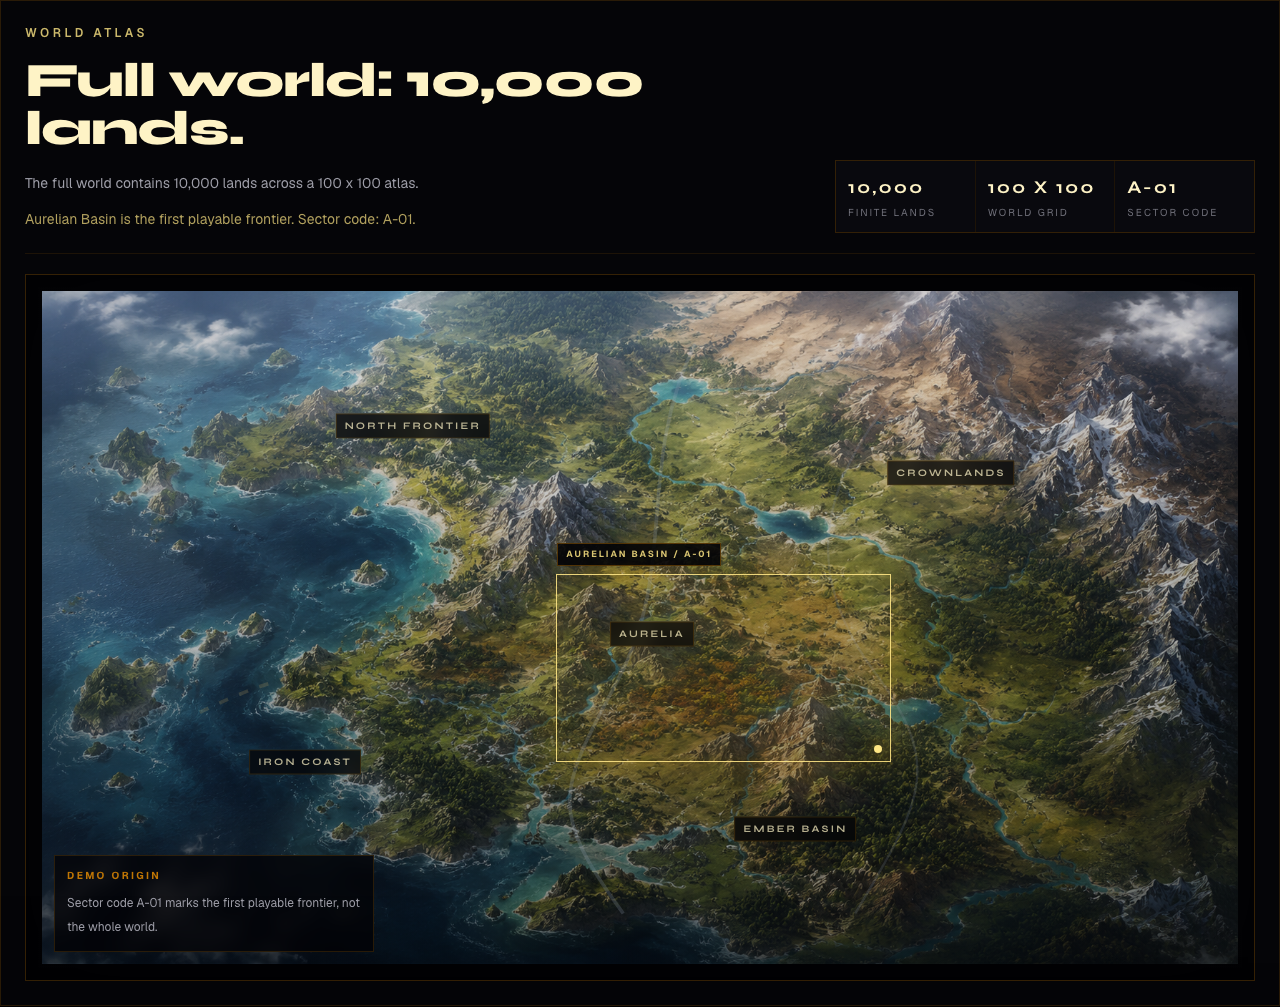
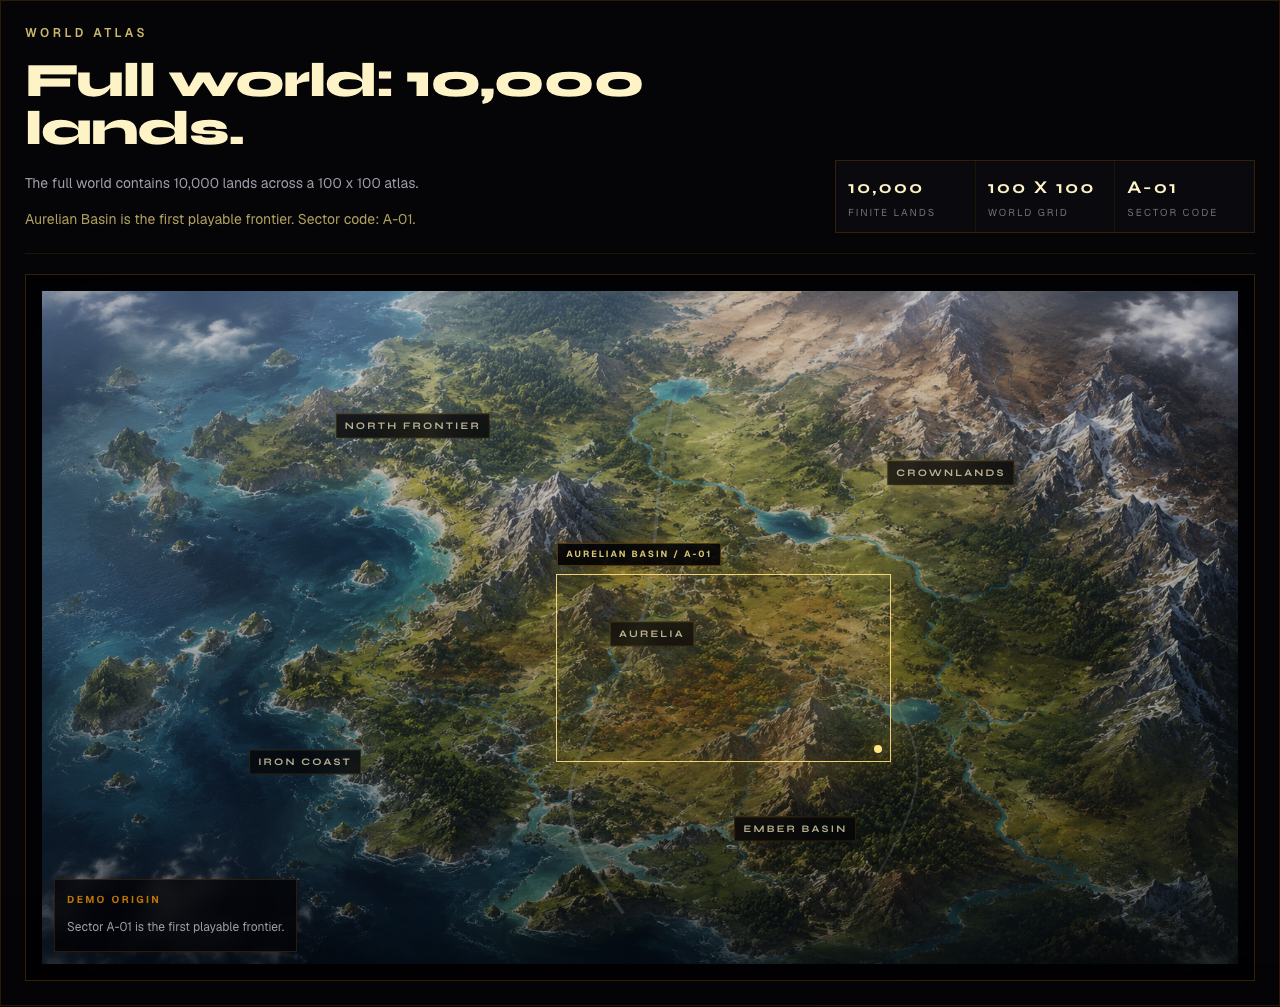
Fix mobile map framing and QA bundle rule

Changed region(s): [[0.0312, 0.8312, 0.2812, 0.9235]]

diff --git a/app/world/page.tsx b/app/world/page.tsx
@@ -370,6 +370,7 @@ export default function WorldPage() {
   const [selectedTileId, setSelectedTileId] = useState<string>(tiles[0].id);
   const [isClaimModalOpen, setIsClaimModalOpen] = useState(false);
   const [claimSuccess, setClaimSuccess] = useState(false);
+  const [mobileMapZoom, setMobileMapZoom] = useState(1);
 
   useEffect(() => {
     const state = readSettlementState();
@@ -441,6 +442,15 @@ export default function WorldPage() {
     setSelectedTileId(tileId);
     setHasUserSelectedTile(true);
   };
+
+  const fitMobileMap = () => setMobileMapZoom(1);
+  const zoomMobileMapIn = () => setMobileMapZoom((current) => Math.min(1.5, current + 0.25));
+  const zoomMobileMapOut = () => setMobileMapZoom((current) => Math.max(1, current - 0.25));
+  const mobileMapControls = [
+    { label: "Fit", action: fitMobileMap },
+    { label: "Zoom Out", action: zoomMobileMapOut },
+    { label: "Zoom In", action: zoomMobileMapIn },
+  ];
 
   useEffect(() => {
     setMobileTrayDismissed(false);
@@ -581,7 +591,7 @@ export default function WorldPage() {
                 Aurelian Basin is the first playable frontier. Sector code: A-01.
               </p>
             </div>
-            <div className="grid grid-cols-3 gap-px border border-amber-500/10 bg-amber-500/10 text-[10px] uppercase tracking-[0.2em] text-zinc-500">
+            <div className="grid grid-cols-1 gap-px border border-amber-500/10 bg-amber-500/10 text-[10px] uppercase tracking-[0.2em] text-zinc-500 sm:grid-cols-3">
               <div className="bg-[#08080f]/95 p-3">
                 <p className="font-[family-name:var(--font-syne)] text-lg font-bold text-amber-100">10,000</p>
                 <p className="mt-1">finite lands</p>
@@ -610,13 +620,14 @@ export default function WorldPage() {
               aria-hidden
               className="absolute inset-3 bg-[radial-gradient(ellipse_at_center,transparent_38%,rgba(2,2,4,0.78)_100%)]"
             />
-            <div
-                className="relative aspect-[16/9] min-h-[260px] overflow-hidden bg-cover bg-center sm:min-h-[420px] lg:min-h-[560px]"
-                style={{
-                  backgroundImage:
-                    "linear-gradient(180deg, rgba(2,2,4,0.10), rgba(2,2,4,0.46)), url('/assets/world-map/aurelian-basin-v1.png')",
-                }}
-              >
+            <div className="relative aspect-[16/9] min-h-[260px] overflow-hidden bg-[#030306] sm:min-h-[420px] lg:min-h-[560px]">
+              <img
+                src="/assets/world-map/aurelian-basin-v1.png"
+                alt=""
+                aria-hidden
+                className="absolute inset-0 h-full w-full object-contain opacity-95 sm:object-cover"
+              />
+              <div className="absolute inset-0 bg-[linear-gradient(180deg,rgba(2,2,4,0.10),rgba(2,2,4,0.46))]" />
               {false && ATLAS_REGIONS.map((region) => (
                 <div
                   key={region.id}
@@ -693,12 +704,12 @@ export default function WorldPage() {
                 <span className="absolute bottom-2 right-2 h-2 w-2 rounded-full bg-amber-200 shadow-[0_0_16px_rgba(251,191,36,0.85)]" />
               </div>
 
-              <div className="absolute bottom-3 left-3 max-w-xs border border-amber-500/15 bg-[#030306]/80 p-3 backdrop-blur-sm">
+              <div className="absolute inset-x-3 bottom-3 border border-amber-500/15 bg-[#030306]/80 p-3 backdrop-blur-sm sm:left-3 sm:right-auto sm:max-w-xs">
                 <p className="text-[10px] font-bold uppercase tracking-[0.24em] text-amber-500/75">
                   Demo Origin
                 </p>
-                <p className="mt-2 text-xs leading-6 text-zinc-400">
-                  Sector code A-01 marks the first playable frontier, not the whole world.
+                <p className="mt-2 whitespace-normal break-words text-xs leading-6 text-zinc-400">
+                  Sector A-01 is the first playable frontier.
                 </p>
               </div>
             </div>
@@ -748,14 +759,33 @@ export default function WorldPage() {
                 </div>
               </div>
 
-              <div className="mt-5 overflow-x-auto pb-2">
+              <div className="mt-5 flex flex-wrap items-center justify-between gap-3 border border-amber-500/10 bg-[#08080f]/70 p-2 sm:hidden">
+                <p className="text-[10px] uppercase tracking-[0.2em] text-zinc-500">
+                  Default view fits Sector A-01. Zoom to inspect and pan.
+                </p>
+                <div className="flex gap-1.5">
+                  {mobileMapControls.map(({ label, action }) => (
+                    <button
+                      key={label}
+                      type="button"
+                      onClick={action}
+                      className="rounded border border-amber-500/18 bg-[#030306]/80 px-2.5 py-1.5 text-[9px] font-bold uppercase tracking-[0.16em] text-amber-100/75"
+                    >
+                      {label}
+                    </button>
+                  ))}
+                </div>
+              </div>
+
+              <div className="mt-4 overflow-x-auto pb-2 sm:mt-5">
                 <div
-                    className="world-sector-canvas relative min-w-[680px] overflow-hidden border border-amber-500/25 bg-cover bg-center p-3 shadow-[0_24px_80px_rgba(0,0,0,0.45),inset_0_0_90px_rgba(0,0,0,0.68)]"
-                    style={{
-                      backgroundImage:
-                        "linear-gradient(180deg, rgba(2,2,4,0.08), rgba(2,2,4,0.42)), url('/assets/world-map/aurelian-basin-v1.png')",
-                    }}
-                  >
+                  className="world-sector-canvas relative w-full min-w-0 overflow-hidden border border-amber-500/25 bg-contain bg-center bg-no-repeat p-2 shadow-[0_24px_80px_rgba(0,0,0,0.45),inset_0_0_90px_rgba(0,0,0,0.68)] transition-[width] duration-200 sm:min-w-[680px] sm:bg-cover sm:p-3"
+                  style={{
+                    width: `${Math.round(mobileMapZoom * 100)}%`,
+                    backgroundImage:
+                      "linear-gradient(180deg, rgba(2,2,4,0.08), rgba(2,2,4,0.42)), url('/assets/world-map/aurelian-basin-v1.png')",
+                  }}
+                >
                   <div aria-hidden className="world-sector-noise pointer-events-none absolute inset-0 z-[1]" />
                   <div
                     aria-hidden
@@ -809,7 +839,7 @@ export default function WorldPage() {
                   </div>
                   <div
                     aria-hidden
-                    className="pointer-events-none absolute bottom-6 right-6 z-[23] border border-amber-500/15 bg-[#030306]/70 px-2 py-1 text-[8px] uppercase tracking-[0.2em] text-zinc-500 backdrop-blur-sm"
+                    className="pointer-events-none absolute bottom-6 right-6 z-[23] hidden border border-amber-500/15 bg-[#030306]/70 px-2 py-1 text-[8px] uppercase tracking-[0.2em] text-zinc-500 backdrop-blur-sm sm:block"
                   >
                     Full world: 10,000 lands
                   </div>

diff --git a/app/page.tsx b/app/page.tsx
@@ -735,13 +735,14 @@ export default function Home() {
             </div>
 
             <div className="relative overflow-hidden border border-amber-500/25 bg-[#050509]/90 p-3 shadow-[0_40px_150px_rgba(0,0,0,0.68),0_0_120px_rgba(201,169,98,0.12)]">
-              <div
-                className="relative aspect-[4/3] min-h-[320px] overflow-hidden bg-cover bg-center sm:min-h-[420px] lg:min-h-[520px]"
-                style={{
-                  backgroundImage:
-                    "linear-gradient(180deg, rgba(2,2,4,0.04), rgba(2,2,4,0.48)), url('/assets/world-map/aurelian-basin-v1.png')",
-                }}
-              >
+              <div className="relative aspect-[4/3] min-h-[300px] overflow-hidden bg-[#030306] sm:min-h-[420px] lg:min-h-[520px]">
+                <img
+                  src="/assets/world-map/aurelian-basin-v1.png"
+                  alt=""
+                  aria-hidden
+                  className="absolute inset-0 h-full w-full object-contain opacity-95 sm:object-cover"
+                />
+                <div className="absolute inset-0 bg-[linear-gradient(180deg,rgba(2,2,4,0.04),rgba(2,2,4,0.48))]" />
                 <div className="absolute inset-0 bg-[radial-gradient(ellipse_at_center,transparent_38%,rgba(2,2,4,0.72)_100%)]" />
                 <div className="absolute left-4 top-4 border border-amber-500/25 bg-[#030306]/78 px-3 py-2 backdrop-blur-sm">
                   <p className="text-[9px] font-bold uppercase tracking-[0.24em] text-amber-500/80">
@@ -753,7 +754,7 @@ export default function Home() {
                 </div>
                 <div className="absolute bottom-4 right-4 border border-amber-500/15 bg-[#030306]/72 px-3 py-2 text-right backdrop-blur-sm">
                   <p className="text-[9px] uppercase tracking-[0.22em] text-zinc-500">
-                    Playable on /world
+                    Explore Sector A-01
                   </p>
                   <p className="mt-1 text-xs font-semibold text-amber-100/80">
                     Claim one land. Begin an empire.

diff --git a/public/qa/latest/report.html b/public/qa/latest/report.html
@@ -27,7 +27,7 @@
     <header>
       <p class="eyebrow">Pixel Nations QA Report</p>
       <h1>Pixel Nations QA Report</h1>
-      <p>Generated: <code>2026-06-18T15:37:06.536Z</code></p>
+      <p>Generated: <code>2026-06-18T16:48:19.943Z</code></p>
       <p>App source: <code>existing local app</code></p>
     </header>
 

diff --git a/docs/QA_GOVERNANCE_PROTOCOL.md b/docs/QA_GOVERNANCE_PROTOCOL.md
@@ -111,6 +111,10 @@ After any strategic decision or handoff review, the assistant should state:
 - Which tools are allowed or blocked
 - Stop condition
 
+## Review Upload Bundle Rule
+
+Future review/debug packages should create one upload bundle whenever possible: one folder or one `.zip` that includes the handoff, relevant screenshots, and review `.txt`/`.json` files. Avoid asking the user to hunt for many separate files.
+
 ## Merge Rule
 
 Do not merge a feature only because:
